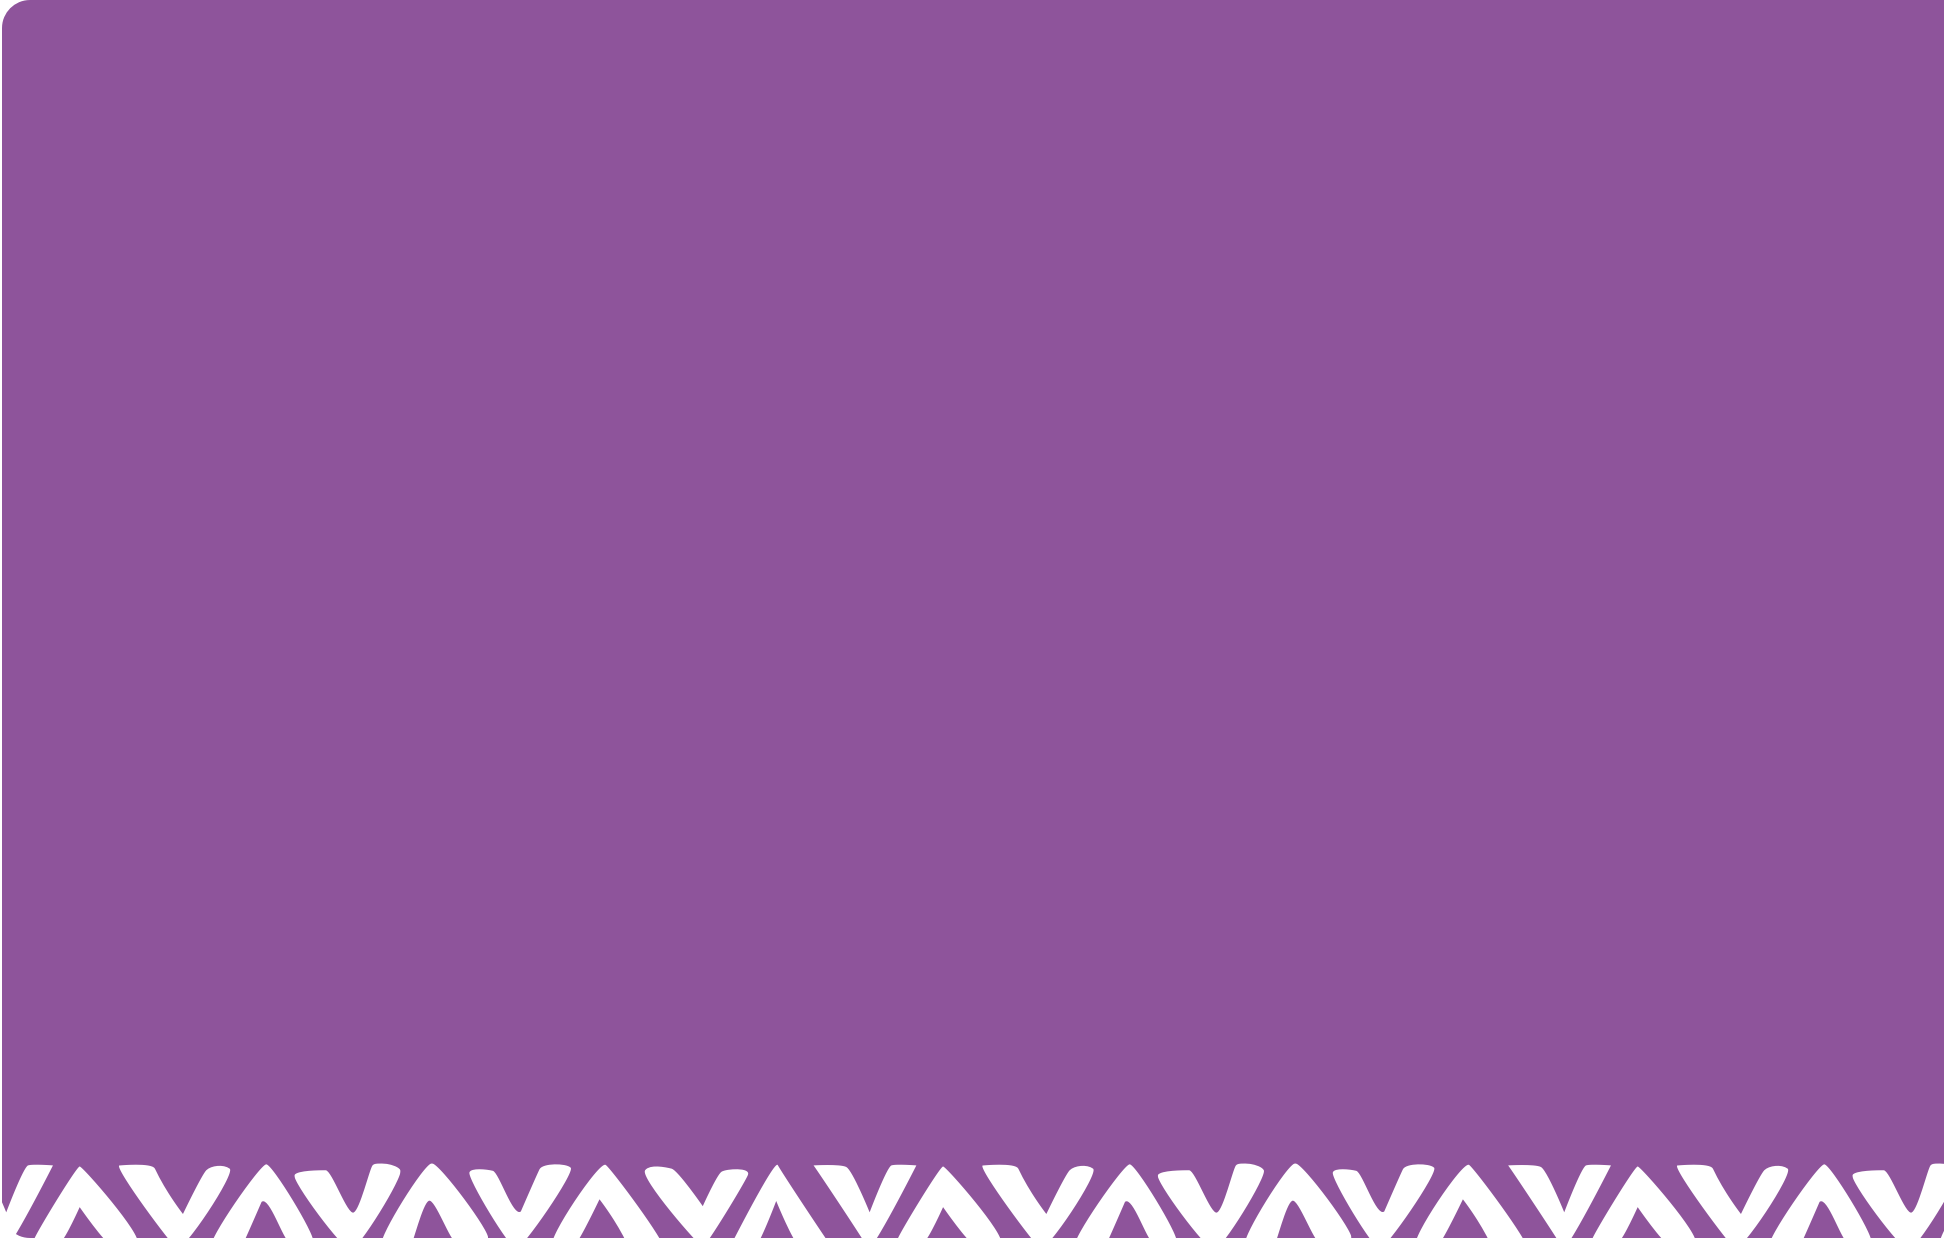
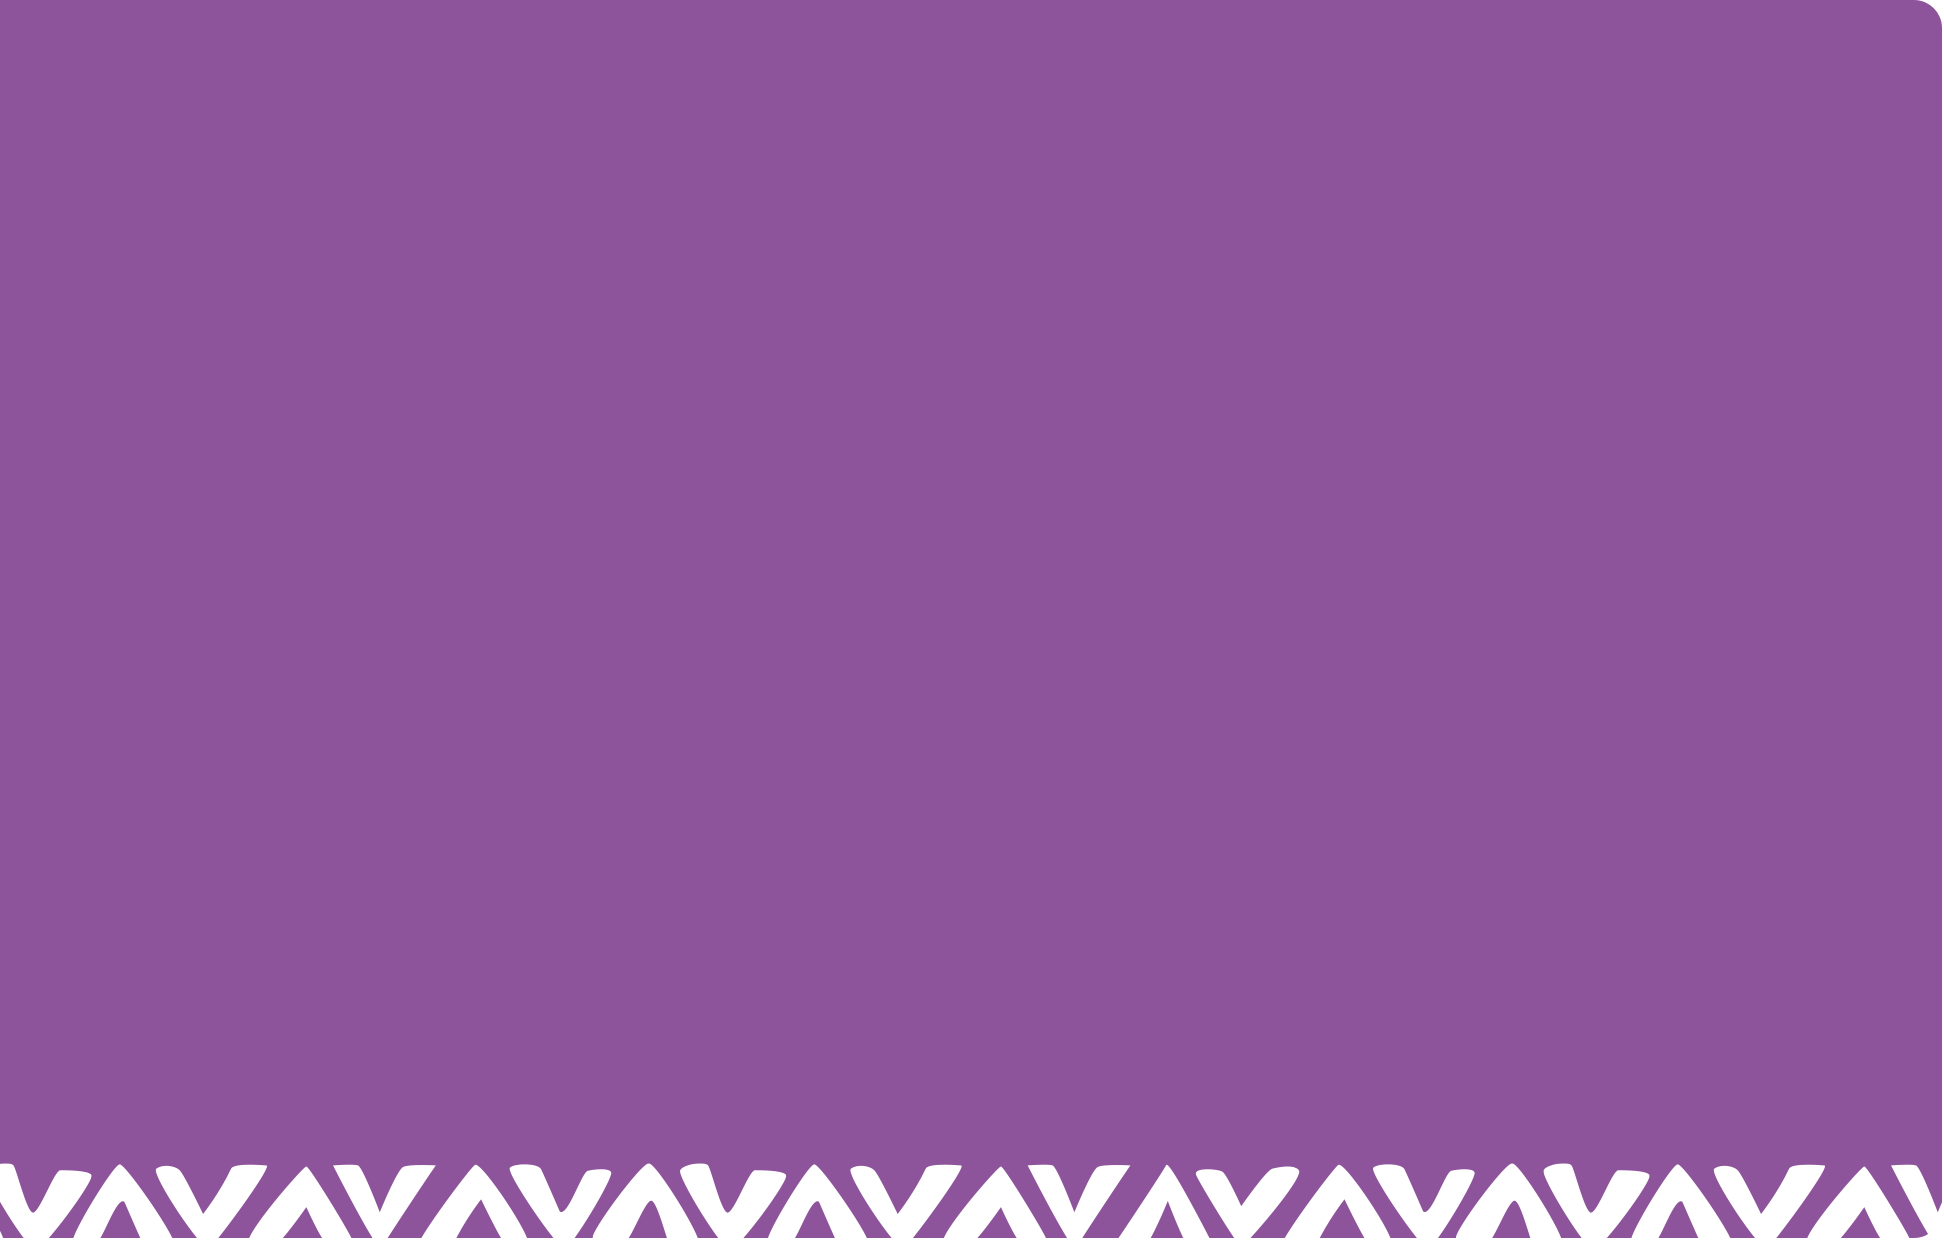
Implement featured course section

Changed region(s): [[0.0, 0.9048, 1.0, 0.9984], [0.9877, 0.0, 1.0, 0.0312], [0.0, 0.0, 0.0309, 0.0312]]

diff --git a/src/components/LandingPage/QuoteSection.tsx b/src/components/LandingPage/QuoteSection.tsx
@@ -8,6 +8,10 @@ type QuoteSectionProps = {
 }
 const QuoteSection: React.FC<QuoteSectionProps> = ({ settings }) => {
   const { isRtl, language } = useLanguage()
+
+  // ToDo: Enable it when we have translations in Amharic and Swahili
+  if (language !== 'ar' && language !== 'en') return null
+
   const { homeQuotes, homeSettings } = settings
   const { homeBullets } = homeSettings
   const { data: selectedLanguagePoints } =
@@ -23,15 +27,7 @@ const QuoteSection: React.FC<QuoteSectionProps> = ({ settings }) => {
 
   return (
     <div className="flex flex-wrap title">
-      <div
-        className="w-full"
-        style={{
-          backgroundImage: 'url(/images/quote-bg.png)',
-          backgroundSize: '50% 100%',
-          backgroundRepeat: 'no-repeat',
-          backgroundPosition: isRtl ? 'right top' : 'left top',
-        }}
-      >
+      <div className="w-full brmg-bg-quote-section">
         <div className="brmg-container h-96 flex flex-wrap">
           <div className="w-1/2 h-full relative">
             <img
@@ -57,24 +53,26 @@ const QuoteSection: React.FC<QuoteSectionProps> = ({ settings }) => {
               }`}
             />
           </div>
-          <div className="w-1/2 px-4">
-            {selectedLanguagePoints?.map(({ title, bullets }) => {
-              return (
-                <>
-                  <div className="text-bold text-xl mt-1 mb-2">{title}</div>
-                  <ul>
-                    {bullets.map(bullet => {
-                      return (
-                        <li className="list-disc-none leading-loose font-light">
-                          <AiFillCheckCircle className="inline-block opacity-60 text-brmg-secondary mx-1" />
-                          {bullet}
-                        </li>
-                      )
-                    })}
-                  </ul>
-                </>
-              )
-            })}
+          <div className="w-1/2 px-4 text-brmg-subtle flex items-center">
+            <div>
+              {selectedLanguagePoints?.map(({ title, bullets }) => {
+                return (
+                  <>
+                    <div className="text-bold text-xl mt-1 mb-2">{title}</div>
+                    <ul>
+                      {bullets.map(bullet => {
+                        return (
+                          <li className="list-disc-none leading-loose font-light">
+                            <AiFillCheckCircle className="inline-block opacity-60 text-brmg-secondary mx-1" />
+                            {bullet}
+                          </li>
+                        )
+                      })}
+                    </ul>
+                  </>
+                )
+              })}
+            </div>
           </div>
         </div>
       </div>

diff --git a/src/components/LandingPage/FeaturedCourse.tsx b/src/components/LandingPage/FeaturedCourse.tsx
@@ -1,0 +1,53 @@
+import React, { useContext } from 'react'
+import { useTranslation } from 'react-i18next'
+import { getYoutubeThumbnail } from '../../common/util'
+import { AppContext } from '../../contexts/AppContext'
+import useLanguage from '../../hooks/useLanguage'
+import CourseCard from '../Courses/CourseCard'
+import Button from '../General/Button'
+
+const FeaturedCourse: React.FC = () => {
+  const { courses } = useContext(AppContext)
+  const { language } = useLanguage()
+  const { t } = useTranslation()
+
+  const coursesInLanguage = courses
+    .filter(c => c.language.iso2 === language && c.status === 'Published')
+    .reverse()
+  const course = coursesInLanguage[coursesInLanguage.length - 1]
+  if (!course) return null
+  const firstLecture = course.lectures[0] || {}
+  const { url: imageUrl } = firstLecture
+  const cardLink = `/courses/${course.slug}/lectures/${firstLecture?.slug}`
+
+  return (
+    <>
+      <h2 className="brmg-container title text-3xl mt-20">{t('newCourse')}</h2>
+      <div className="brmg-container flex mb-16 mt-8 p-8 h-128 text-white title bg-brmg-success rounded-lg">
+        <div className="w-3/5">
+          <h2 className="text-3xl">{course.title}</h2>
+          <h2 className="text-base leading-loose w-1/2 mt-8">
+            {course.description}
+          </h2>
+          <div className="w-1/3 my-6">
+            <Button link href={cardLink} extraClasses="title" mode="primary">
+              {t('start')}
+            </Button>
+          </div>
+        </div>
+        <div className="w-2/5 relative">
+          <div className="absolute top-0 -mt-24">
+            <CourseCard
+              showTags
+              fluidHeight
+              image={getYoutubeThumbnail(imageUrl)}
+              course={course}
+            />
+          </div>
+        </div>
+      </div>
+    </>
+  )
+}
+
+export default FeaturedCourse

diff --git a/src/pages/index.tsx b/src/pages/index.tsx
@@ -48,24 +48,24 @@ const IndexPage: React.FC<IndexPageProps> = ({ data }) => {
   }, [open])
   return (
     <>
-      <Seo
-        description={t('landingPage.heroText')}
-        title={t('landingPage.heroSubtitle')}
-      />
-      <Layout modalOpen={open} isHomePage>
-        <LandingPage settings={settings} />
-        <div className="brmg-container w-full mx-auto pt-10">
-          <div className="w-full md:mt-2 text-brmg-black leading-normal">
-            <AppProvider initialCoursesList={coursesToDisplay}>
+      <AppProvider initialCoursesList={coursesToDisplay}>
+        <Seo
+          description={t('landingPage.heroText')}
+          title={t('landingPage.heroSubtitle')}
+        />
+        <Layout modalOpen={open} isHomePage>
+          <LandingPage settings={settings} />
+          <div className="brmg-container w-full mx-auto pt-10">
+            <div className="w-full md:mt-2 text-brmg-black leading-normal">
               <CoursesHome
                 showMoreCard
                 hidleFilters
                 courses={coursesToDisplay}
               />
-            </AppProvider>
+            </div>
           </div>
-        </div>
-      </Layout>
+        </Layout>
+      </AppProvider>
       {open && (
         <div style={{ direction: 'ltr' }}>
           <Modal

diff --git a/src/components/Courses/CourseCard.tsx b/src/components/Courses/CourseCard.tsx
@@ -20,6 +20,7 @@ type Props = {
   courseViewMode?: boolean
   isCourseInProgress?: boolean
   showTags?: boolean
+  fluidHeight?: boolean
   lectureToPlayNext?: Lecture
 }
 
@@ -30,6 +31,7 @@ const CourseCard: React.FC<Props> = ({
   courseViewMode,
   isCourseInProgress,
   showTags,
+  fluidHeight,
   lectureToPlayNext = course.lectures[0],
 }) => {
   const { t } = useTranslation()
@@ -107,7 +109,13 @@ const CourseCard: React.FC<Props> = ({
             </Link>
           </div>
         </div>
-        <div className={`${!courseViewMode ? 'h-48 overflow-scroll' : ''}`}>
+        <div
+          className={`${
+            !courseViewMode && !fluidHeight
+              ? 'h-48 overflow-scroll'
+              : 'min-h-24 max-h-48 overflow-scroll'
+          }`}
+        >
           <HtmlViewer
             className="text-brmg-subtle text-base leading-relaxed"
             data={description}

diff --git a/src/components/LandingPage/index.tsx b/src/components/LandingPage/index.tsx
@@ -5,6 +5,7 @@ import Header from '../Header'
 import HeroSection from './HeroSection'
 import QuoteSection from './QuoteSection'
 import { HomePageSettings } from '../../types/api.types'
+import FeaturedCourse from './FeaturedCourse'
 
 type LandingPageProps = {
   settings: HomePageSettings
@@ -14,13 +15,14 @@ const LandingPage: React.FC<LandingPageProps> = ({ settings }) => {
   const { isRtl } = useLanguage()
   return (
     <>
-      <div className="bg-top-header">
+      <div className="brmg-bg-top-header">
         <div className={` ${isRtl ? 'flex-row-reverse' : ''} title md:pb-24 `}>
           <Header />
           <HeroSection />
         </div>
       </div>
       <QuoteSection settings={settings} />
+      <FeaturedCourse />
     </>
   )
 }

diff --git a/src/components/layout.css b/src/components/layout.css
@@ -13,17 +13,30 @@
   font-family: NotoKufi;
 }
 
-.bg-top-header {
+.brmg-bg-top-header {
   background-image: url(/images/hero-bg-ltr.png);
   background-size: 50% 100%;
   background-repeat: no-repeat;
   background-position: right top;
 }
 
-.rtl .bg-top-header {
+.rtl .brmg-bg-top-header {
   background-image: url(/images/hero-bg-rtl.png);
   background-position: left top;
 }
+
+.brmg-bg-quote-section {
+  background-image: url(/images/quote-bg.png);
+  background-size: 50% 100%;
+  background-repeat: no-repeat;
+  background-position: left top;
+}
+
+.rtl .brmg-bg-quote-section {
+  background-image: url(/images/quote-bg-rtl.png);
+  background-position: right top;
+}
+
 .amharic {
   @apply font-am;
 }

diff --git a/src/components/General/Button.tsx b/src/components/General/Button.tsx
@@ -5,6 +5,7 @@ const colors = {
   info: 'text-white bg-brmg-secondary',
   error: 'text-white bg-brmg-highlight',
   success: 'text-white bg-brmg-success',
+  primary: 'text-white bg-brmg-primary',
 }
 const getClasses = (props: Partial<ButtonProps>) => {
   const classes = []
@@ -28,7 +29,7 @@ const getClasses = (props: Partial<ButtonProps>) => {
   return classes
 }
 type ButtonProps = {
-  mode?: 'info' | 'error' | 'success'
+  mode?: 'info' | 'error' | 'success' | 'primary'
   link?: boolean
   extraClasses?: string
   small?: boolean

diff --git a/src/components/Layout.tsx b/src/components/Layout.tsx
@@ -34,7 +34,7 @@ const Layout: React.FC<LayoutProps> = ({
     children
   ) : (
     <>
-      <div className="bg-top-header bg-fixed">
+      <div className="brmg-bg-top-header bg-fixed">
         <div
           className={` ${
             isRtl ? 'flex-row-reverse' : ''
